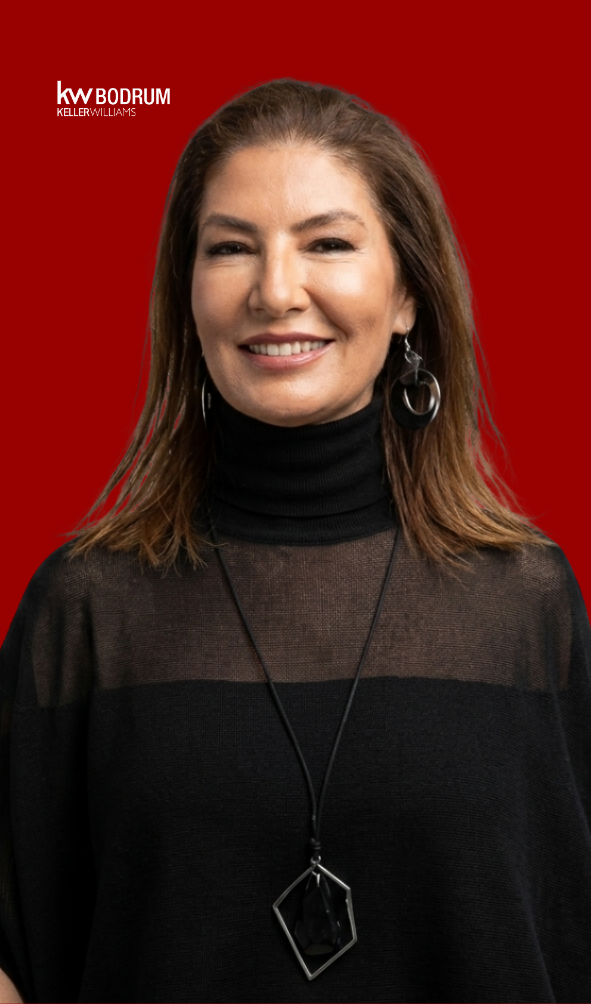
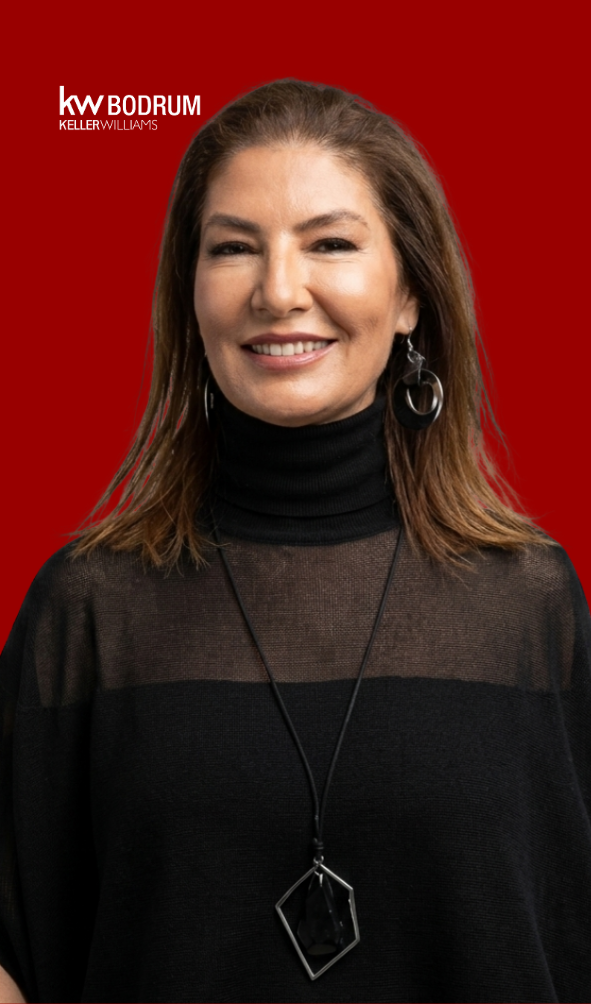
Add files via upload

diff --git a/style.css b/style.css
@@ -1,15 +1,123 @@
 * { box-sizing: border-box; }
-html, body { margin: 0; width: 100%; min-height: 100%; background: #b40000; font-family: Arial, Helvetica, sans-serif; }
-body { min-height: 100svh; }
-.screen { width: 100%; min-height: 100svh; display: grid; place-items: center; background: #111; }
-.card { position: relative; width: min(100vw, 590px); aspect-ratio: 590 / 1004; overflow: hidden; background: #b40000; }
-.background { position: absolute; inset: 0; width: 100%; height: 100%; object-fit: cover; user-select: none; pointer-events: none; }
-.identity { position: absolute; left: 8.2%; bottom: 23.7%; color: white; width: 84%; text-shadow: 0 1px 2px rgba(0,0,0,.15); }
-.identity h1 { margin: 0; font-size: clamp(31px, 7.4vw, 50px); line-height: .95; letter-spacing: -0.035em; font-weight: 800; }
-.name-line, .surname-line { white-space: nowrap; }
-.role { margin: 14px 0 4px; font-size: clamp(13px, 2.8vw, 19px); line-height: 1.12; font-weight: 400; white-space: nowrap; }
-.actions { position: absolute; left: 8.2%; right: 5.4%; bottom: 13.1%; display: grid; grid-template-columns: 1fr 1fr; gap: 7.5%; }
-.action { min-height: 50px; display: grid; place-items: center; padding: 10px 12px; border-radius: 999px; background: rgba(255,255,255,.62); color: white; text-decoration: none; text-align: center; font-size: clamp(11px, 2.5vw, 17px); line-height: 1; white-space: nowrap; backdrop-filter: blur(2px); -webkit-backdrop-filter: blur(2px); transition: transform .12s ease, background .12s ease; -webkit-tap-highlight-color: transparent; }
-.action:active { transform: scale(.97); background: rgba(255,255,255,.75); }
-@media (max-aspect-ratio: 590/1004) { .screen { place-items: start center; background: #b40000; } .card { width: 100vw; } }
-@media (min-width: 591px) { .card { max-height: 100svh; width: auto; height: 100svh; } }
+
+html, body {
+  margin: 0;
+  width: 100%;
+  min-height: 100%;
+  background: #b40000;
+  font-family: Arial, Helvetica, sans-serif;
+}
+
+body {
+  min-height: 100svh;
+}
+
+.screen {
+  width: 100%;
+  min-height: 100svh;
+  display: grid;
+  place-items: center;
+  background: #111;
+}
+
+.card {
+  position: relative;
+  width: min(100vw, 590px);
+  aspect-ratio: 590 / 1004;
+  overflow: hidden;
+  background: #b40000;
+}
+
+.background {
+  position: absolute;
+  inset: 0;
+  width: 100%;
+  height: 100%;
+  object-fit: cover;
+  user-select: none;
+  pointer-events: none;
+}
+
+
+.identity {
+  position: absolute;
+  left: 8.2%;
+  bottom: 23.7%;
+  color: white;
+  width: 66%;
+  text-shadow: 0 1px 2px rgba(0,0,0,.15);
+}
+
+.identity h1 {
+  margin: 0;
+  font-size: clamp(34px, 8.6vw, 56px);
+  line-height: .92;
+  letter-spacing: -0.035em;
+  font-weight: 800;
+}
+
+.role {
+  margin: 14px 0 4px;
+  font-size: clamp(15px, 3.45vw, 23px);
+  line-height: 1.05;
+  font-weight: 400;
+  white-space: nowrap;
+}
+
+.actions {
+  position: absolute;
+  left: 8.2%;
+  right: 5.4%;
+  bottom: 13.1%;
+  display: grid;
+  grid-template-columns: 1fr 1fr;
+  gap: 7.5%;
+}
+
+.action {
+  min-height: 50px;
+  display: grid;
+  place-items: center;
+  padding: 10px 12px;
+  border-radius: 999px;
+  background: rgba(255,255,255,.62);
+  color: white;
+  text-decoration: none;
+  text-align: center;
+  font-size: clamp(12px, 2.75vw, 18px);
+  line-height: 1;
+  white-space: nowrap;
+  backdrop-filter: blur(2px);
+  -webkit-backdrop-filter: blur(2px);
+  transition: transform .12s ease, background .12s ease;
+  -webkit-tap-highlight-color: transparent;
+}
+
+.action:active {
+  transform: scale(.97);
+  background: rgba(255,255,255,.75);
+}
+
+@media (max-aspect-ratio: 590/1004) {
+  .screen {
+    place-items: start center;
+    background: #b40000;
+  }
+  .card {
+    width: 100vw;
+  }
+}
+
+@media (min-width: 591px) {
+  .card {
+    max-height: 100svh;
+    width: auto;
+    height: 100svh;
+  }
+}
+
+
+/* Ahmet Faruk Çölok kartı */
+.name-line {
+  white-space: nowrap;
+}

diff --git a/index.html b/index.html
@@ -14,12 +14,15 @@
       <img class="background" src="background.png" alt="">
 
       <div class="identity">
-        <h1><span class="name-line">MELTEM</span><br><span class="surname-line">İMİRZALIOĞLU</span></h1>
+        <h1><span class="name-line">MELTEM</span><br>İMİRZALIOĞLU</h1>
         <p class="role">MASTER KOÇ &amp; YÖNETİCİ ORTAK</p>
       </div>
 
       <div class="actions">
-        <a class="action" href="https://www.kwbodrum.com.tr/tr/agent/meltem-imirzaloglu-2acc4617" target="_blank" rel="noopener noreferrer">PROFİLİMİ GÖR</a>
+        <a class="action"
+           href="https://www.kwbodrum.com.tr/tr/agent/meltem-imirzaloglu-2acc4617"
+           target="_blank"
+           rel="noopener noreferrer">PROFİLİMİ GÖR</a>
         <a class="action" href="contact.vcf">REHBERE KAYDET</a>
       </div>
     </section>
